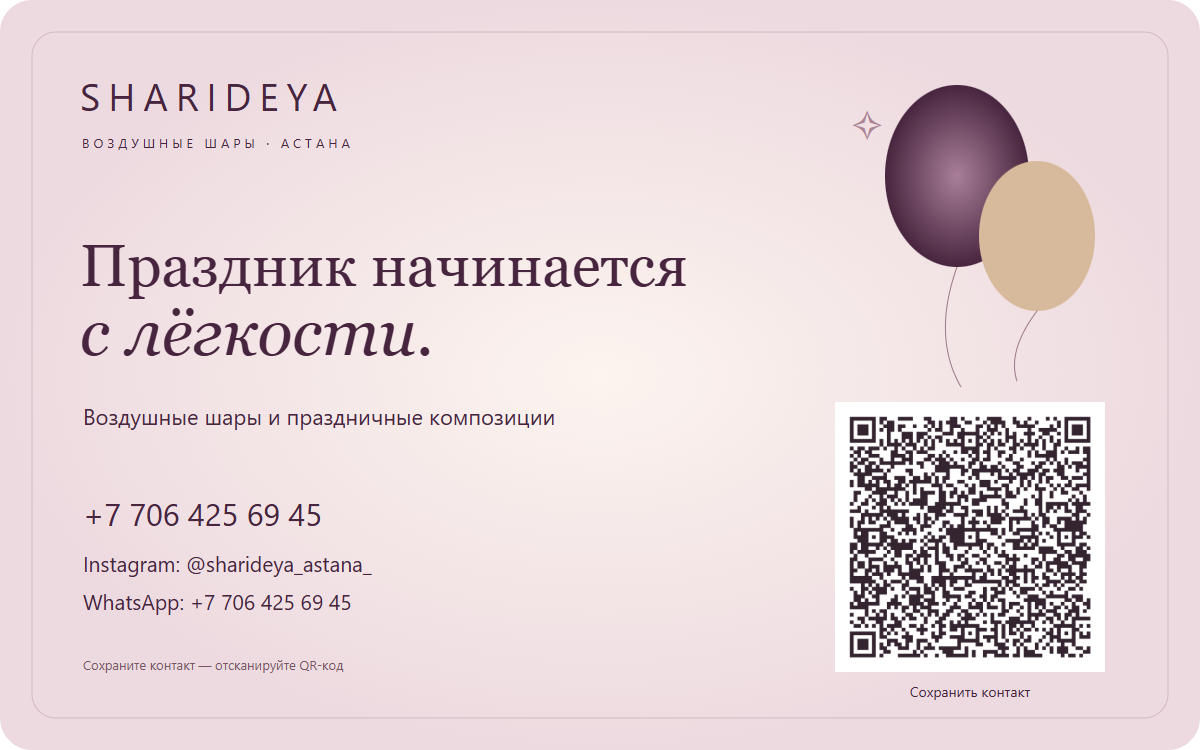
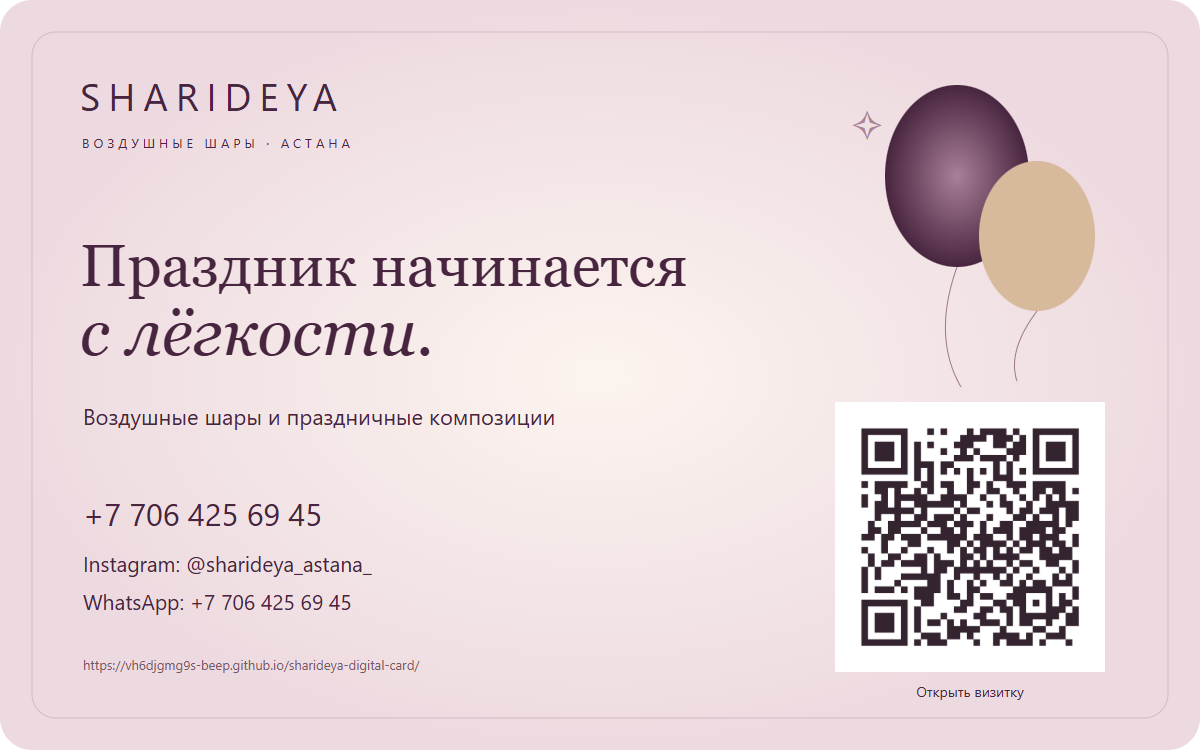
Add verified public URL, QR codes and NFC assets

Changed region(s): [[0.7092, 0.552, 0.925, 0.8893], [0.0617, 0.8587, 0.3392, 0.92], [0.7708, 0.92, 0.8633, 0.9507]]

diff --git a/docs/index.html b/docs/index.html
@@ -1,6 +1,6 @@
 <!doctype html>
-<html lang="ru"><head><meta charset="UTF-8"><meta name="viewport" content="width=device-width, initial-scale=1"><meta name="theme-color" content="#48253e"><meta name="description" content="SHARIDEYA — воздушные шары и праздничные композиции в Астане. Связаться, сохранить контакт и поделиться визиткой."><meta http-equiv="Content-Security-Policy" content="default-src 'none'; script-src 'self'; style-src 'self'; img-src 'self' data:; font-src 'self'; connect-src 'self'; base-uri 'none'; form-action 'none'; object-src 'none'"><meta name="referrer" content="no-referrer"><meta property="og:title" content="SHARIDEYA — немного волшебства для вашего праздника"><meta property="og:description" content="Воздушные шары и праздничные композиции · Астана"><meta property="og:type" content="website"><title>SHARIDEYA · Воздушные шары в Астане</title><link rel="icon" href="icon.svg" type="image/svg+xml"><link rel="stylesheet" href="style.css"><script src="app.js" defer></script></head>
+<html lang="ru"><head><meta charset="UTF-8"><meta name="viewport" content="width=device-width, initial-scale=1"><meta name="theme-color" content="#48253e"><meta name="description" content="SHARIDEYA — воздушные шары и праздничные композиции в Астане. Связаться, сохранить контакт и поделиться визиткой."><meta http-equiv="Content-Security-Policy" content="default-src 'none'; script-src 'self'; style-src 'self'; img-src 'self' data:; font-src 'self'; connect-src 'self'; base-uri 'none'; form-action 'none'; object-src 'none'"><meta name="referrer" content="no-referrer"><meta property="og:title" content="SHARIDEYA — немного волшебства для вашего праздника"><meta property="og:description" content="Воздушные шары и праздничные композиции · Астана"><meta property="og:type" content="website"><link rel="canonical" href="https://vh6djgmg9s-beep.github.io/sharideya-digital-card/"><meta property="og:url" content="https://vh6djgmg9s-beep.github.io/sharideya-digital-card/"><meta property="og:image" content="https://vh6djgmg9s-beep.github.io/sharideya-digital-card/SHARIDEYA-card.png"><title>SHARIDEYA · Воздушные шары в Астане</title><link rel="icon" href="icon.svg" type="image/svg+xml"><link rel="stylesheet" href="style.css"><script src="app.js" defer></script></head>
 <body><div class="page"><header class="topline"><a class="wordmark" href="./" aria-label="SHARIDEYA — главная">SHARIDEYA<span>balloons & celebrations</span></a><span class="location"><i></i> Астана, Казахстан</span></header>
 <main><article class="card"><section class="intro"><div class="eyebrow">ВОЗДУШНЫЕ ШАРЫ & ПРАЗДНИЧНЫЕ КОМПОЗИЦИИ</div><div class="art" aria-hidden="true"><div class="orbit"></div><span class="spark s1">✧</span><span class="spark s2">✧</span><span class="spark s3">✦</span><div class="balloon b1"><i></i></div><div class="balloon b2"><i></i></div><div class="balloon b3"><i></i></div><span class="art-caption">маленькие детали, большие эмоции</span></div><h1>Праздник начинается<br>с <em>лёгкости.</em></h1><p class="lead">Воздушные шары и композиции<br>для ваших особенных моментов.</p><div class="signature"><span>SHARIDEYA</span><span>С любовью к праздникам</span></div></section>
 <section class="contact" aria-labelledby="contact-heading"><div class="contact-top"><span class="badge">БИЗНЕС-ВИЗИТКА</span><span class="tiny-spark" aria-hidden="true">✧</span></div><h2 id="contact-heading">Будем на связи</h2><p class="muted">Ваш следующий праздник —<br>всего в одном сообщении.</p><nav class="actions" aria-label="Связаться с SHARIDEYA"><a class="button primary" href="https://wa.me/77064256945" target="_blank" rel="noopener noreferrer"><span class="action-icon" aria-hidden="true">↗</span>Написать в WhatsApp<span class="arrow" aria-hidden="true">↗</span></a><a class="button secondary" href="tel:+77064256945"><svg class="action-icon" aria-hidden="true" viewBox="0 0 24 24" fill="none" stroke="currentColor" stroke-width="1.5"><path d="M7 3 4 4c-2 2 0 7 4 11s9 6 11 4l1-3-5-3-2 2-4-4 2-2-3-6Z"/></svg><span>Позвонить<small>+7 706 425 69 45</small></span><span class="arrow" aria-hidden="true">↗</span></a><a class="button secondary" href="https://www.instagram.com/sharideya_astana_/" target="_blank" rel="noopener noreferrer"><span class="action-icon instagram" aria-hidden="true">◎</span><span>Открыть Instagram<small>@sharideya_astana_</small></span><span class="arrow" aria-hidden="true">↗</span></a><a class="button save" href="SHARIDEYA.vcf" download="SHARIDEYA.vcf"><span class="action-icon" aria-hidden="true">↓</span>Сохранить контакт<span class="file-label">VCF</span></a></nav><div class="utility"><button id="share" type="button">↥ <span>Поделиться визиткой</span></button><a href="SHARIDEYA-card.png" download="SHARIDEYA-card.png">↓ <span>Скачать изображение</span></a></div><p id="status" role="status" aria-live="polite"></p><div id="manual-copy" hidden><label for="card-url">Скопируйте ссылку:</label><input id="card-url" readonly><button id="select-url" type="button">Выделить ссылку</button></div></section></article>
-<section class="qr-section" aria-labelledby="qr-heading"><div class="qr-copy"><span class="eyebrow">СОХРАНИТЕ МОМЕНТ</span><h2 id="qr-heading">Всегда под рукой</h2><p>Отсканируйте QR-код камерой телефона.<br>Откройте визитку или добавьте нас в контакты.</p><span class="nfc-note">◎ Открывается и через NFC-метку</span></div><div class="qr-items"><figure><div class="pending">QR-код визитки появится после публикации сайта.</div><figcaption>Открыть визитку<small>Публикация ещё не завершена</small></figcaption></figure><figure><img src="qr-contact.png" alt="QR-код контакта SHARIDEYA: телефон +7 706 425 69 45" width="176" height="176"><figcaption>Сохранить контакт<small>Имя, телефон и Instagram</small></figcaption><a href="qr-contact.png" download>Скачать PNG ↓</a></figure></div></section></main><footer><span>SHARIDEYA <span class="footer-dot">·</span> Астана</span><span>Создаём настроение. Сохраняем эмоции.</span></footer></div><noscript><p class="noscript">Контакт, телефон, WhatsApp, Instagram и QR-коды работают без JavaScript. Чтобы поделиться, скопируйте адрес страницы.</p></noscript></body></html>
+<section class="qr-section" aria-labelledby="qr-heading"><div class="qr-copy"><span class="eyebrow">СОХРАНИТЕ МОМЕНТ</span><h2 id="qr-heading">Всегда под рукой</h2><p>Отсканируйте QR-код камерой телефона.<br>Откройте визитку или добавьте нас в контакты.</p><span class="nfc-note">◎ Открывается и через NFC-метку</span></div><div class="qr-items"><figure><img src="qr-site.png" alt="QR-код для открытия цифровой визитки SHARIDEYA" width="176" height="176"><figcaption>Открыть визитку<small>Все способы связи</small></figcaption><a href="qr-site.png" download>PNG ↓</a> <a href="qr-site.svg" download>SVG ↓</a></figure><figure><img src="qr-contact.png" alt="QR-код контакта SHARIDEYA: телефон +7 706 425 69 45" width="176" height="176"><figcaption>Сохранить контакт<small>Имя, телефон и Instagram</small></figcaption><a href="qr-contact.png" download>Скачать PNG ↓</a></figure></div></section></main><footer><span>SHARIDEYA <span class="footer-dot">·</span> Астана</span><span>Создаём настроение. Сохраняем эмоции.</span></footer></div><noscript><p class="noscript">Контакт, телефон, WhatsApp, Instagram и QR-коды работают без JavaScript. Чтобы поделиться, скопируйте адрес страницы.</p></noscript></body></html>
